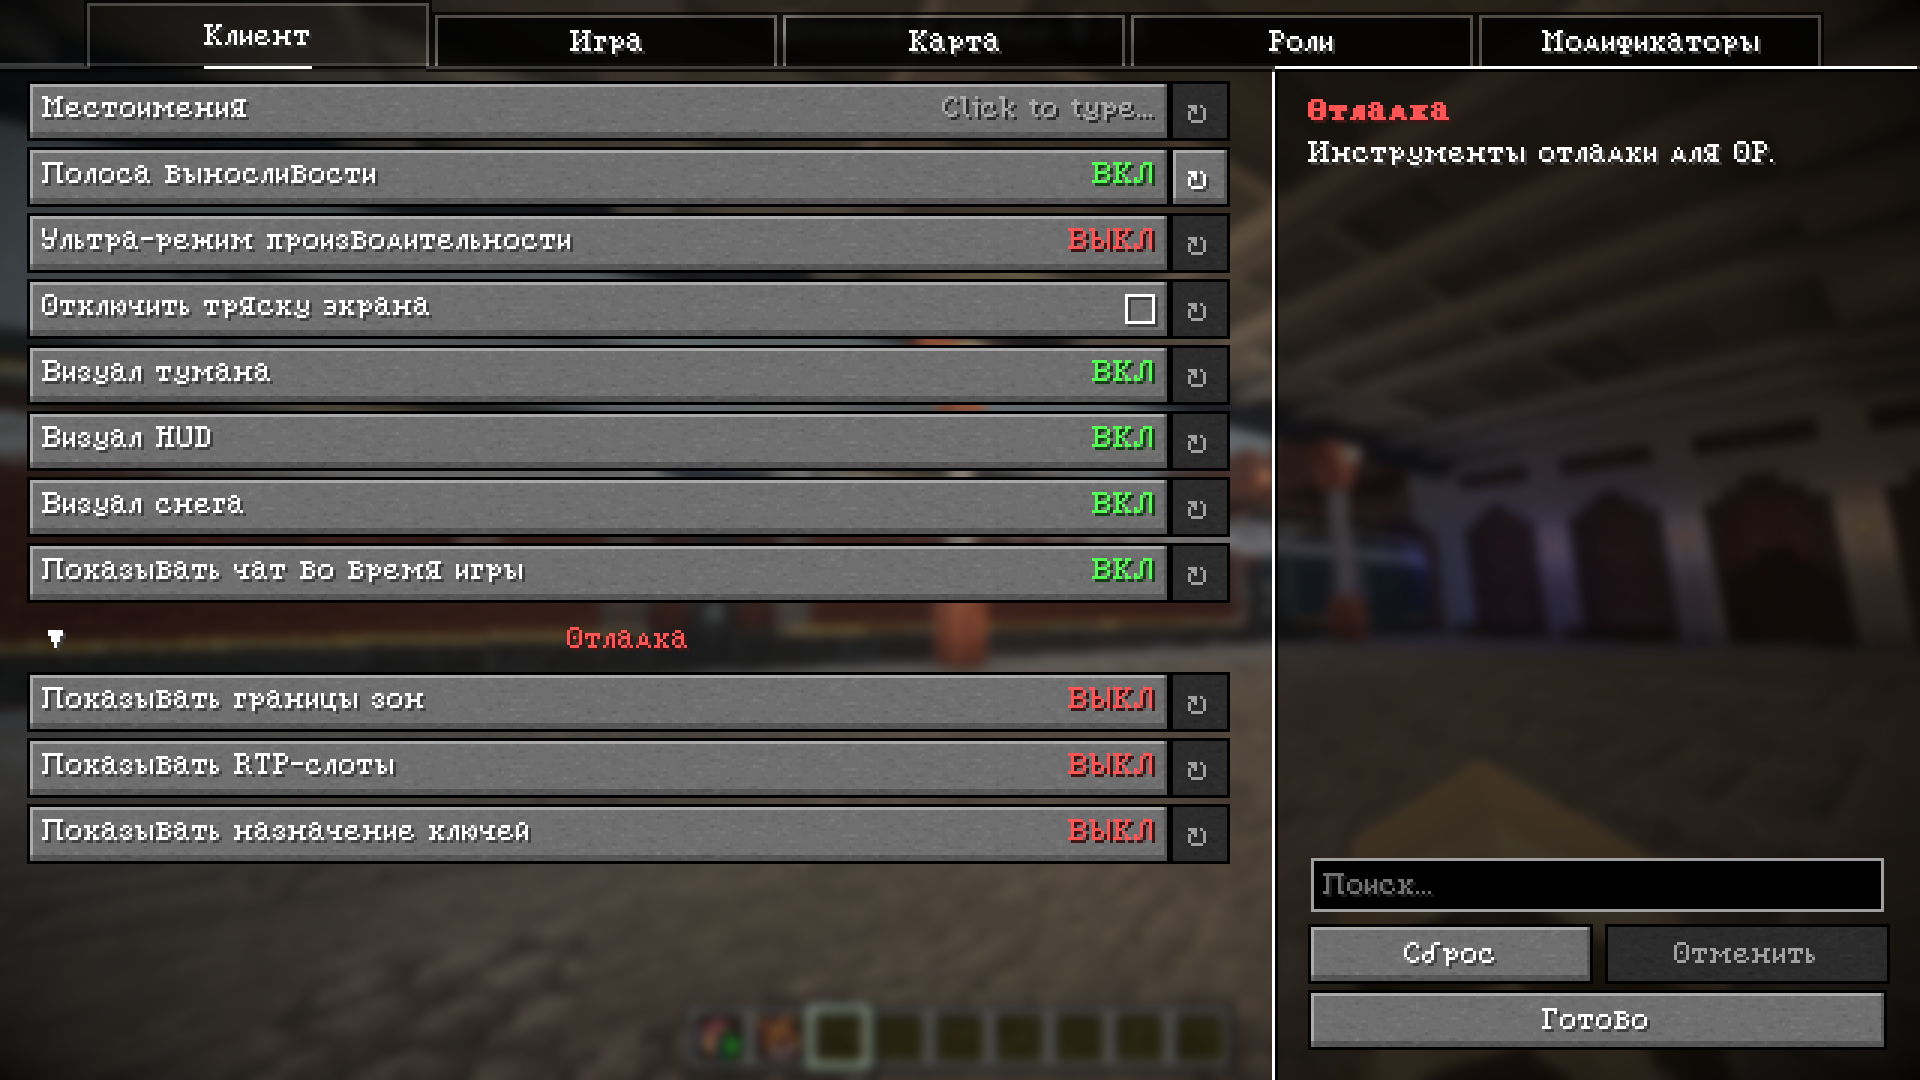
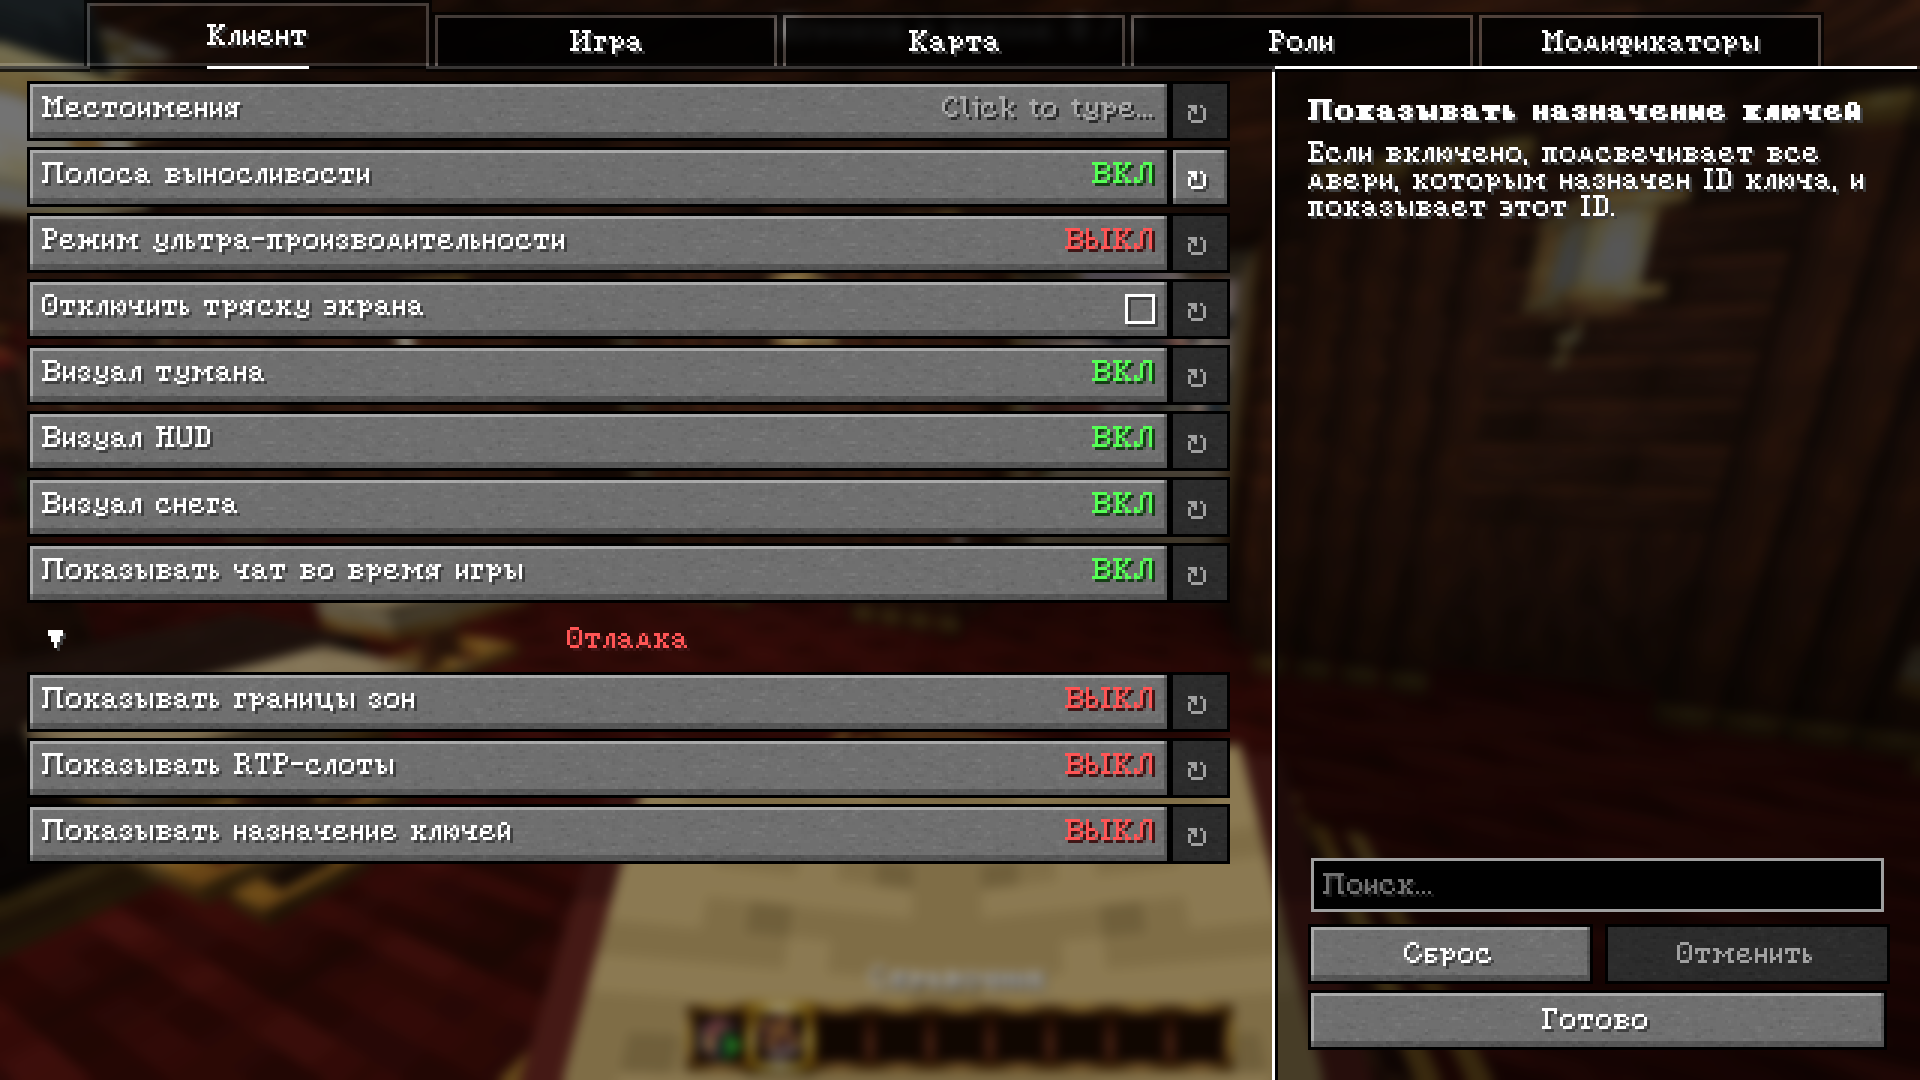
Edit `README.md` and add new screenshots

diff --git a/README.md b/README.md
@@ -15,7 +15,7 @@ There are several installation options available:
 ## Screenshots/Скриншоты:
 ![Guidebook role translation](./screenshots/guidebook-role-translation.png)
 
-![Unfinished guidebook role translation](./screenshots/unfinished-guidebook-role-translation.png)
+![Guidebook modifiers translation](./screenshots/guidebook-modifiers-translation.png)
 
 ![Pause Menu Screenshot (plus mods: Essential and Figura)](./screenshots/pause-menu-screenshot-essential-figura.png)
 
